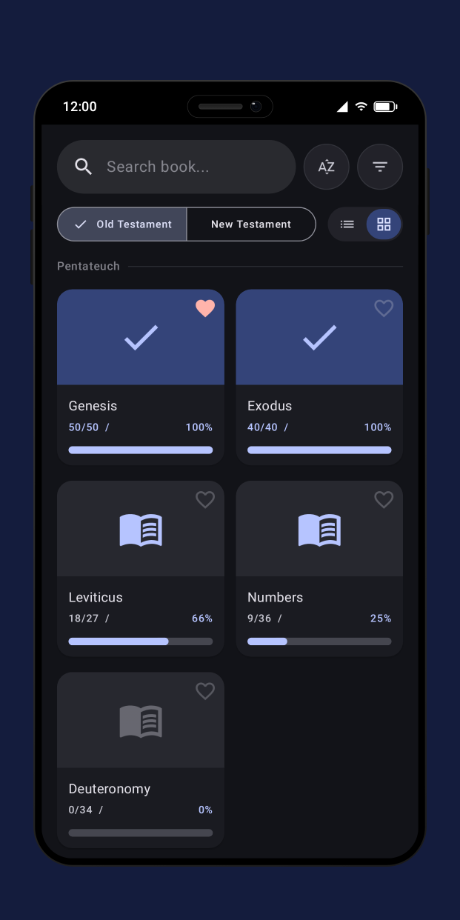
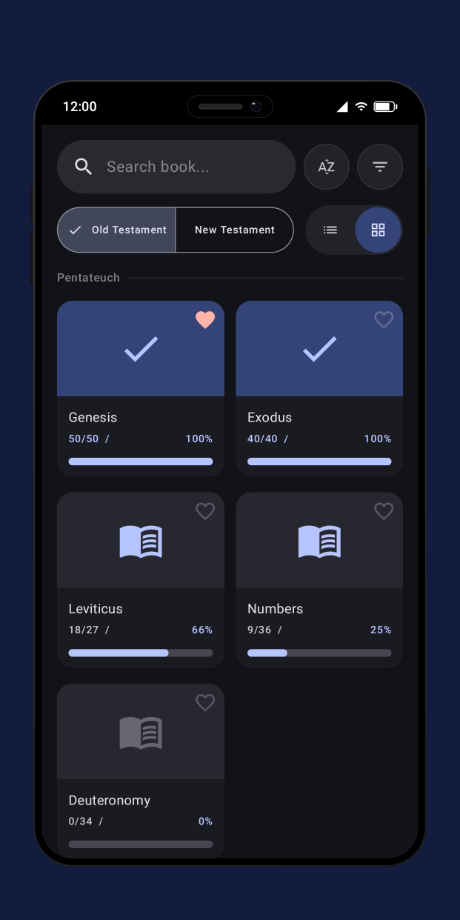
chore: show the listen button in the reader screenshots (#594)

diff --git a/feature/read/src/commonTest/kotlin/com/quare/bibleplanner/feature/read/fixture/ReadSampleData.kt b/feature/read/src/commonTest/kotlin/com/quare/bibleplanner/feature/read/fixture/ReadSampleData.kt
@@ -11,6 +11,7 @@ import com.quare.bibleplanner.feature.read.domain.model.ReadNavigationSuggestion
 import com.quare.bibleplanner.feature.read.domain.model.ReaderFontSize
 import com.quare.bibleplanner.feature.read.domain.model.ReaderRulerLines
 import com.quare.bibleplanner.feature.read.domain.model.ReaderSettingsModel
+import com.quare.bibleplanner.feature.read.presentation.listening.model.ReadListeningUiState
 import com.quare.bibleplanner.feature.read.presentation.model.ReadChapterUiModel
 import com.quare.bibleplanner.feature.read.presentation.model.ReadContentUiState
 import com.quare.bibleplanner.feature.read.presentation.model.ReadHeaderUiModel
@@ -39,6 +40,7 @@ private val versionByLocale = mapOf(
     "pt-BR" to "ACF",
     "es" to "RVR",
 )
+private val listeningVersions = setOf("A21", "ACF", "ARA", "NIV", "ESV", "KJV", "WEB")
 private val versesByLocale = mapOf(
     "en-US" to listOf(
         "In the beginning, God created the heavens and the earth.",
@@ -169,4 +171,14 @@ internal fun readUiState(
         isOpeningChapterStudy = false,
         isChapterStudyBeside = false,
     )
+}
+
+/**
+ * The listen entry as the app shows it for the version [locale]'s reader chip names: the app offers
+ * listening only for the versions in the listening_cloud_versions Remote Config value, which
+ * [listeningVersions] mirrors.
+ */
+internal fun listeningUiState(locale: String): ReadListeningUiState {
+    val isListeningOffered = versionByLocale.getValue(locale) in listeningVersions
+    return if (isListeningOffered) availableListeningUiState() else hiddenListeningUiState()
 }

diff --git a/feature/read/src/commonTest/kotlin/com/quare/bibleplanner/feature/read/fixture/ReadScreenshotContent.kt b/feature/read/src/commonTest/kotlin/com/quare/bibleplanner/feature/read/fixture/ReadScreenshotContent.kt
@@ -51,7 +51,7 @@ internal fun ReadScreenshotContent(
                             locale = locale,
                             areVersesHighlighted = areVersesHighlighted,
                         ),
-                        listening = hiddenListeningUiState(),
+                        listening = listeningUiState(locale),
                         onEvent = {},
                         onListeningEvent = {},
                         dayCompletionBanner = NoDayCompletionBanner,
